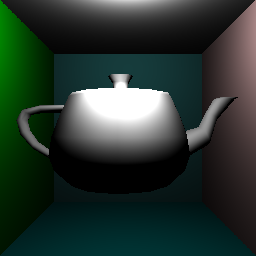
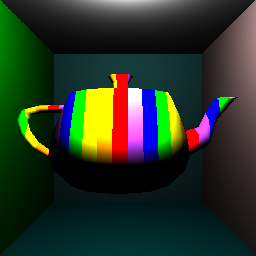
procedial textures

Changed region(s): [[0.0625, 0.2812, 0.9062, 0.6562]]

diff --git a/rt/src/rt/materials/ProceduraleDiffuse.java b/rt/src/rt/materials/ProceduraleDiffuse.java
@@ -1,0 +1,123 @@
+package rt.materials;
+
+import javax.vecmath.Vector3f;
+
+import rt.HitRecord;
+import rt.Material;
+import rt.Spectrum;
+import rt.Material.ShadingSample;
+
+public class ProceduraleDiffuse implements Material{
+
+Spectrum kd;
+	
+	/**
+	 * Note that the parameter value {@param kd} is the diffuse reflectance,
+	 * which should be in the range [0,1], a value of 1 meaning all light
+	 * is reflected (diffusely), and none is absorbed. The diffuse BRDF
+	 * corresponding to {@param kd} is actually {@param kd}/pi.
+	 * 
+	 * @param kd the diffuse reflectance
+	 */
+	public ProceduraleDiffuse(Spectrum kd)
+	{
+		this.kd = new Spectrum(kd);
+		// Normalize
+		this.kd.mult(1/(float)Math.PI);
+	}
+	
+	/**
+	 * Default diffuse material with reflectance (1,1,1).
+	 */
+	public ProceduraleDiffuse()
+	{
+		this(new Spectrum(1.f, 1.f, 1.f));
+	}
+
+	/**
+	 * Returns diffuse BRDF value, that is, a constant.
+	 * 
+	 *  @param wOut outgoing direction, by convention towards camera
+	 *  @param wIn incident direction, by convention towards light
+	 *  @param hitRecord hit record to be used
+	 */
+	public Spectrum evaluateBRDF(HitRecord hitRecord, Vector3f wOut, Vector3f wIn) {
+		
+		/*boolean isPositive = hitRecord.position.x>0;
+		boolean condition = false;
+		if(isPositive)
+			condition = 10*hitRecord.position.x%2 < 1;
+		else
+			condition = Math.abs(10*hitRecord.position.x%2) >= 1;*/
+		
+		float restx= 10*hitRecord.position.x % 6;
+		if(restx<0)
+			restx+=6;
+		
+		float resty= 10*hitRecord.position.y % 2;
+		if(resty<0)
+			resty+=2;
+		restx= (int)restx;
+		resty= (int)resty;
+		
+		
+		
+		//Schachbrett
+		/*if((restx+resty)%2==0)
+			return new Spectrum(1,1,1);
+		return new Spectrum(0,0,0);*/
+		
+		
+		// 6 gestreift
+		switch((int)restx){
+		case 0: return new Spectrum(0.6f, 0.2f, 0.8f);
+		case 1: return new Spectrum(0,0,1);
+		case 2: return new Spectrum(0,1,0);
+		case 3: return new Spectrum(1,1,0);
+		case 4: return new Spectrum(1,0.6f,0);
+		case 5: return new Spectrum(1,0,0);
+		default: return new Spectrum(1,1,1);
+		}
+		
+		//return new Spectrum(kd);
+	}
+
+	public boolean hasSpecularReflection()
+	{
+		return false;
+	}
+	
+	public ShadingSample evaluateSpecularReflection(HitRecord hitRecord)
+	{
+		return null;
+	}
+	public boolean hasSpecularRefraction()
+	{
+		return false;
+	}
+
+	public ShadingSample evaluateSpecularRefraction(HitRecord hitRecord)
+	{
+		return null;
+	}
+	
+	// To be implemented for path tracer!
+	public ShadingSample getShadingSample(HitRecord hitRecord, float[] sample)
+	{
+		return null;	
+	}
+		
+	public boolean castsShadows()
+	{
+		return true;
+	}
+	
+	public Spectrum evaluateEmission(HitRecord hitRecord, Vector3f wOut) {
+		return new Spectrum(0.f, 0.f, 0.f);
+	}
+
+	public ShadingSample getEmissionSample(HitRecord hitRecord, float[] sample) {
+		return new ShadingSample();
+	}
+	
+}

diff --git a/rt/src/rt/intersectables/Instance.java b/rt/src/rt/intersectables/Instance.java
@@ -16,6 +16,8 @@ public class Instance implements Intersectable {
 
 	private Intersectable intersectable;
 	private Matrix4f t;
+	private Matrix4f inv = new Matrix4f();
+	
 	private Material material;
 	private Ray r;
 
@@ -25,7 +27,7 @@ public class Instance implements Intersectable {
 	//	Matrix4f inv = new Matrix4f();
 	//	inv.invert(t);	
 		this.t = t;
-		
+		inv.invert(t);
 		this.material = new Diffuse(); //default material
 	}
 
@@ -33,8 +35,6 @@ public class Instance implements Intersectable {
 	public HitRecord intersect(Ray r) {
 		// TODO: Create instance ray, intersect enclosed intersectable with it.
 		this.r = r;
-		Matrix4f inv = new Matrix4f();
-		inv.invert(t);
 		Point3f origin = new Point3f(r.origin);
 		Vector3f direction = r.direction;
 		

diff --git a/rt/src/rt/Main.java b/rt/src/rt/Main.java
@@ -22,7 +22,7 @@ public class Main {
 	/** 
 	 * The scene to be rendered.
 	 */
-	public static Scene scene = new InstancingTeapots();
+	public static Scene scene = new TeapotShadowTest();
 	
 	public static void main(String[] args) throws InterruptedException, ExecutionException, FileNotFoundException, UnsupportedEncodingException
 	{			

diff --git a/rt/src/rt/testscenes/TeapotShadowTest.java b/rt/src/rt/testscenes/TeapotShadowTest.java
@@ -83,6 +83,8 @@ public class TeapotShadowTest extends Scene {
 		{
 			
 			mesh = ObjReader.read("../obj/teapot.obj", 1.f);
+			mesh.material = new ProceduraleDiffuse();
+			
 			timer.reset();
 			accelerator = new BSPAccelerator(mesh);
 			System.out.printf("Accelerator computed in %d ms.\n", timer.timeElapsed());
